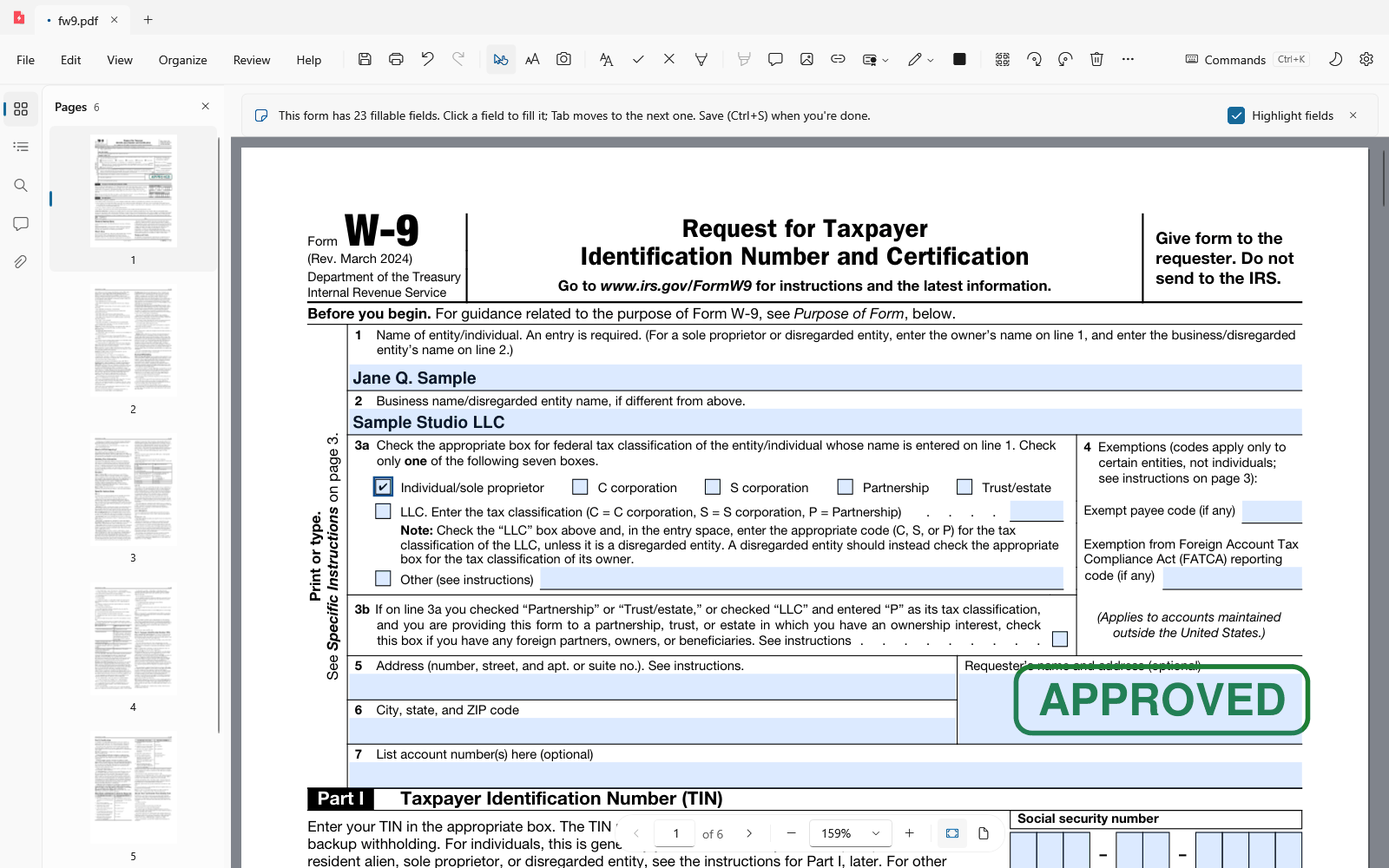
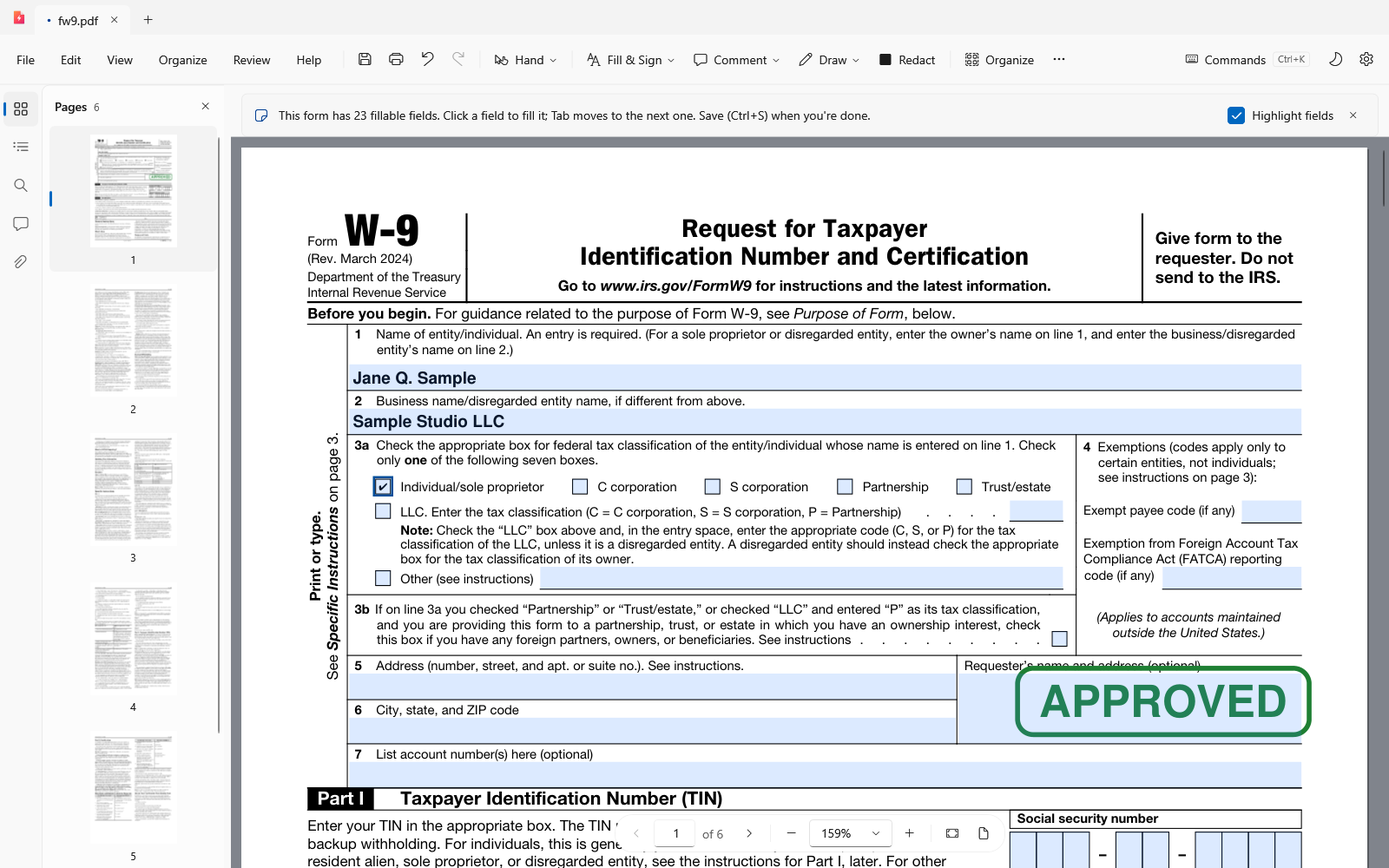
UX review round 2 (docs/UX-REVIEW.md): Inkvolt PDF 9.47 -> 9.62 (Fluent consistency and recognition 10 with Settings applying at once and the labeled, grouped command bar; minimalist 9.5; responsiveness 10 with the title bar and Organize following Text size), Inkvolt Print 9.50 -> 9.61 (Fluent consi

diff --git a/docs/UX-REVIEW.md b/docs/UX-REVIEW.md
@@ -5,7 +5,8 @@ them. Everything was judged on the real UI: every window, pane, dialog and state
 own dev aids (Inkvolt PDF's `--script`, Inkvolt Print's `--demo --snapshot`), in light and dark, at 1400 × 900, 1180 × 800
 and 900 × 620, plus a UI Automation audit of every visible control (the `a11yaudit` step and `--a11y-audit` switch added
 for this review). The review ran in two passes on 2026-10-30; the scores below are before the first and after the
-second. The scripts and the before/after shots that carry the findings are in `docs/ux-review/`; the full set reproduces
+second; a round 2 (below) then closed most of what each app's "Still short" listed (Inkvolt PDF 9.62, Inkvolt Print
+9.61). The scripts and the before/after shots that carry the findings are in `docs/ux-review/`; the full set reproduces
 with the scripts there. Scores are judged, not measured: each half point names what earned it or what still holds it
 back.
 
@@ -138,16 +139,83 @@ Fourteen criteria, weighted to 100. Each is scored 0–10 per app; the app's sco
 - **Flexibility**: shortcuts cover the review, Photos and presets, not every button; a palette would be more than the app
   needs.
 
+## Round 2
+
+A second pass on 2026-10-30 at what the first left short, judged the same way: the real UI rendered off-screen in light
+and dark, at 100 % and with Windows' Text size at 150 % (and 200 % for Inkvolt Print), plus the UI Automation audit.
+The shots are in `docs/ux-review/round2/` (`before/`, `after/`); `pdf-round2.txt` and the round-2 runs at the end of
+`print-runs.ps1` reproduce them.
+
+### Inkvolt PDF
+
+| # | Criterion | Round 1 | Round 2 | What changed |
+|---|---|---|---|---|
+| 4 | Fluent consistency | 9.5 | 10 | Settings apply at once, as Windows 11's do: no Save, only Close (`after/pdf-settings.png`). The command bar follows Fluent 2's pattern: primary commands, labeled groups, a "…" overflow that keeps the labels. |
+| 5 | Recognition | 9.5 | 10 | At 1200 DIPs the bar was 15 unlabeled icons (`before/pdf-bar-1200.png`); it now reads Hand, Fill & Sign, Comment (`after/pdf-bar-1200.png`), with Draw and Organize from 1400 and everything at 1700. Each group's menu names its tools with their icons and keys (`after/pdf-bar-fillsign.png`, `after/pdf-bar-comment.png`). |
+| 7 | Minimalist | 9.0 | 9.5 | About twenty icons became four (save, print, undo, redo) and six labeled buttons; rotate, delete pages, find and combine live in "…" (`after/pdf-bar-more.png`), the menus and the palette. |
+| 14 | Responsiveness | 9.5 | 10 | The title bar's tabs and the Organize view kept their size at Text size 150 % (`before/pdf-reading-150.png`, `before/pdf-organize-150.png`); they scale now and the title bar grows to fit (`after/pdf-reading-150.png`, `after/pdf-organize-150.png`). The bar's labels go only when Fill & Sign or Comment wouldn't fit with them (`after/pdf-bar-900.png`). |
+| 3 | Control | 9.5 | 9.5 | Instant settings keep a way back: Undo changes puts every setting changed since Settings opened back as it was, Reset to defaults included (`after/pdf-settings-undone.png`). |
+| | Every other criterion | — | as round 1 | |
+| | **Weighted** | **9.47** | **9.62** | |
+
+**The command bar, the one redesign of this pass.** Before (`before/pdf-bar-1200.png`, `before/pdf-bar-1400.png`): the
+first round's bar kept labels only on windows about 1700 DIPs wide; at 1200 and 1400 it was a row of icons (save, print,
+undo, redo, hand, select, snapshot, add text, check, cross, sign, highlight, note, then "…"). After
+(`after/pdf-bar-1200.png`, `after/pdf-bar-1400.png`, `after/pdf-bar-1200-dark.png`): the same commands in the same
+order, grouped as the menus already group them: save, print, undo and redo stay icons (their glyphs are universal);
+**Hand / Select / Snapshot** is one button named after the tool in use; **Fill & Sign** drops add text, check mark,
+cross and sign; **Comment** drops highlight, underline, strike out, note, image, link and stamp; **Draw**, **Redact** and
+**Organize** are labeled; "…" holds what didn't fit (a group as a submenu) and then rotate, delete selected pages, find
+and combine, all with labels. A group shows the tool of it in use (icon, checked). Which entries stay as room runs short
+is a table in Core (`CommandBarLayout`: order, groups, priorities, icons; tested), and a test reads the menus to check
+every bar command is in them, so the palette lists each one (Organize › Delete Selected Pages joined the menus for that).
+
+**Settings.** Each change takes effect and is saved as it is made; Reset to defaults applies at once; Undo changes
+(disabled when nothing changed, its tooltip counting the changes) puts back the values from when the window opened
+(`SettingsSession`, Core, tested). That covers the risky ones: turning off recovery copies, resetting everything.
+
+#### Still short
+
+- **Text size 150 % on a 1200-DIP window** leaves the bar 800 DIPs, of which the menu bar takes about 380: the bar goes
+  icons-only there (save, print, undo, then "…"; `after/pdf-bar-1200-150.png`). The groups keep their tooltips, the
+  menus and the palette have everything; folding the menu bar into one button would free the room but hide the Alt
+  keys people use, so it stays.
+- **The group menus** are WPF context menus in the app's Fluent styling, not WinUI flyouts with a line of description
+  under each command.
+- **Organize's page pictures** keep the thumbnail size the slider sets; their numbers and buttons scale.
+
+### Inkvolt Print
+
+| # | Criterion | Round 1 | Round 2 | What changed |
+|---|---|---|---|---|
+| 4 | Fluent consistency | 9.5 | 10 | Motion where Fluent expects it: a section's page when its tab is chosen, the printer's page when another printer is, a status line when its words change, the folded sidebar sliding in, the palette dropping in; 167 ms, decelerate, none when Windows' Animation effects is off (`Motion`). |
+| 6 | Flexibility | 9.5 | 10 | A command palette (Ctrl+K), the same as Inkvolt PDF's: every sidebar, header, section and printer-menu command, each other printer, each scan preset with its Ctrl+1…9 (`after/print-palette.png`, `after/print-palette-scan-dark.png`); it says what to try when nothing matches (`after/print-palette-nomatch.png`). Help lists Ctrl+K. Everything is a few keys away without the mouse. |
+| 14 | Responsiveness | 9.5 | 10 | At Text size 150 % the 272-DIP sidebar took a third of a 1180-DIP window, at 200 % nearly half, cutting the printer's name to "HP LaserJ…" and wrapping the tabs in three rows (`before/print-overview-200.png`). Below 852 DIPs of room it folds into a Printers button that opens it over the page, as Windows Settings folds its pane (`after/print-overview-150.png`, `after/print-overview-200.png`, `after/print-nav-open-150.png`); never at 100 %. |
+| | Every other criterion | — | as round 1 | |
+| | **Weighted** | **9.50** | **9.61** | |
+
+The audit finds no control without a name or under 24 × 24 on the palette, the folded window or the open sidebar.
+
+#### Still short
+
+- **The palette** acts on the selected printer; another printer's menu commands need "Show …" first.
+- **Motion in the scan review** (a page added, deleted, moved) stays immediate: the review's own Undo and status line
+  say what happened, and animating the page grid while scanning would compete with the progress bar.
+
 ## How to reproduce
 
 - Inkvolt PDF: `InkvoltPdf.exe --script docs/ux-review/pdf-before.txt` (and `pdf-final.txt`, `pdf-audit.txt`) with
   `INKVOLTPDF_DATA` set to a scratch folder; the sample PDFs come from the tests with `INKVOLTPDF_SAMPLES` set. Edit the
   output paths in the scripts first.
-  `pdf-textsize.txt` is the second pass (`textscale 1.5` stands in for Windows' Text size).
+  `pdf-textsize.txt` is the second pass (`textscale 1.5` stands in for Windows' Text size), `pdf-round2.txt` round 2
+  (dev steps `barstate`, `barclick` and `menushot`: the command bar's state, a group's menu, a shot with it open).
 - Inkvolt Print: `InkvoltPrint.exe --demo --snapshot out.png --a11y-audit findings.txt [--tab Scan --scan 3 | --dialog confirm …]`
   (every run: `pwsh -File docs/ux-review/print-runs.ps1 -Exe …\InkvoltPrint.exe -Out C:\ux`). `INKVOLT_TEXTSCALE=1.5`
-  stands in for Windows' Text size in both apps; `--delete n` and `--undo` drive the review's Undo.
+  stands in for Windows' Text size in both apps; `--delete n` and `--undo` drive the review's Undo; round 2 adds
+  `--palette [words]`, `--run-palette` and `--nav open` (the folded sidebar).
 - The audit rules (`UiAudit`: no name, under 24 × 24) and the dialog split (`DialogText`) are in
   `shared/InkvoltPrint.Core/Suite` with tests in `print/tests/InkvoltPrint.Tests/UxTests.cs`; the palette's no-match words
   in `pdf/src/InkvoltPdf.Core/PaletteText.cs` with `PaletteTextTests`; the Text size rules (`TextSize`) and the review's
-  `UndoHistory` with `TextSizeTests` and `UndoHistoryTests`.
+  `UndoHistory` with `TextSizeTests` and `UndoHistoryTests`. Round 2: `CommandBarLayout` and `SettingsSession`
+  (`pdf/src/InkvoltPdf.Core`) with `CommandBarLayoutTests` and `SettingsSessionTests`; `PaletteSearch`, `PrintPalette`
+  and `NavPane` (`shared/InkvoltPrint.Core/Suite`) with `PaletteTests`.

diff --git a/print/README.md b/print/README.md
@@ -111,7 +111,7 @@ dotnet publish src/InkvoltPrint.App -p:PublishProfile=win-arm64   # or win-x64
 ```
 
 Dev aid: `InkvoltPrint.exe --snapshot out.png --tab Scan` renders the window to a PNG after connecting, then exits
-(`--size 1366 860` window size in DIPs, `--fix` opens the offline fixer, `--fix all` also applies its repairs (demo printers only), `--theme Dark`, `--scan [n]` runs one scan (or n) first, `--crop n` then opens the crop view on page n, `--source glass|feeder|duplex`, `--split none|patch|blank|either` and `--keep-separators` set the Scan tab first (with `--preset`, demo only: the preset scans a batch from the feeder and splits it), `--find-photos` turns on Several photos on the glass (with `--crop n` the photo view opens on page n, `--photo-box n` selecting its n-th photo; with `--preset`, demo only: the preset finds the photos and saves them as JPEGs without the review), `--scroll-end` scrolls the tab to its end, `--copy document|idcard-front|idcard` runs a copy first, `--printer n` shows the n-th printer, `--preset id|name` runs a scan preset (`--then print|email|pdf` sets its after-saving step first, demo only), `--presets [n]` renders the presets editor on its n-th preset instead of the window; `--maintenance [n]` scrolls to the Maintenance card and runs its n-th action (demo only, answering yes); `--photos [layout]` fills the Photos tab with generated sample pictures (layouts `full`, `4x6in`, `5x7in`, `8x10in`, `10x15cm`, `13x18cm`, `wallet`, `contact`; also `--paper key`, `--borderless`, `--fit`, `--one-per-sheet`, `--per-sheet n`, `--photo-zoom n`, and `--photo-sheets folder`, which renders each sheet with the print job's own paginator to PNGs there instead of printing); with `--tray` (the notification-area icon, on in demo mode) `--simulate-alerts` feeds a toner drop on the first demo printer and a jam on the second through the alert rules, and `--tray-shot menu|hidden|alert|settings` renders the icon's menu (hidden: after closing to the tray and one background check), a preview of the last alert or the Settings window instead of the window); `--dialog settings|help|whatsnew|report|addprinter|pro` renders that window instead (`pro`: Help › Inkvolt Pro; `--pro-key KEY` enters a key first, `--pro-enforce` shows the wording with the gate on; `pdf/tools/pro-key/test-vector.json` has a key). `--demo --no-printers` is a made-up PC that finds no printer (the empty list); `--demo --whatsnew-from 1.0.2` runs What's New as if updated from that version. `--demo --tray --simulate-alerts` without `--snapshot` shows the real notification.
+(`--size 1366 860` window size in DIPs, `--fix` opens the offline fixer, `--fix all` also applies its repairs (demo printers only), `--theme Dark`, `--scan [n]` runs one scan (or n) first, `--crop n` then opens the crop view on page n, `--source glass|feeder|duplex`, `--split none|patch|blank|either` and `--keep-separators` set the Scan tab first (with `--preset`, demo only: the preset scans a batch from the feeder and splits it), `--find-photos` turns on Several photos on the glass (with `--crop n` the photo view opens on page n, `--photo-box n` selecting its n-th photo; with `--preset`, demo only: the preset finds the photos and saves them as JPEGs without the review), `--scroll-end` scrolls the tab to its end, `--copy document|idcard-front|idcard` runs a copy first, `--printer n` shows the n-th printer, `--preset id|name` runs a scan preset (`--then print|email|pdf` sets its after-saving step first, demo only), `--presets [n]` renders the presets editor on its n-th preset instead of the window; `--maintenance [n]` scrolls to the Maintenance card and runs its n-th action (demo only, answering yes); `--photos [layout]` fills the Photos tab with generated sample pictures (layouts `full`, `4x6in`, `5x7in`, `8x10in`, `10x15cm`, `13x18cm`, `wallet`, `contact`; also `--paper key`, `--borderless`, `--fit`, `--one-per-sheet`, `--per-sheet n`, `--photo-zoom n`, and `--photo-sheets folder`, which renders each sheet with the print job's own paginator to PNGs there instead of printing); with `--tray` (the notification-area icon, on in demo mode) `--simulate-alerts` feeds a toner drop on the first demo printer and a jam on the second through the alert rules, and `--tray-shot menu|hidden|alert|settings` renders the icon's menu (hidden: after closing to the tray and one background check), a preview of the last alert or the Settings window instead of the window); `--nav open` opens the folded sidebar (with `INKVOLT_TEXTSCALE=1.5`), `--palette [words]` opens the command palette with the words typed and `--run-palette` then runs its first entry; `--dialog settings|help|whatsnew|report|addprinter|pro` renders that window instead (`pro`: Help › Inkvolt Pro; `--pro-key KEY` enters a key first, `--pro-enforce` shows the wording with the gate on; `pdf/tools/pro-key/test-vector.json` has a key). `--demo --no-printers` is a made-up PC that finds no printer (the empty list); `--demo --whatsnew-from 1.0.2` runs What's New as if updated from that version. `--demo --tray --simulate-alerts` without `--snapshot` shows the real notification.
 
 Demo mode: `InkvoltPrint.exe --demo` shows five made-up network printers: the HP laser at 192.0.2.10 served from the scrubbed test
 fixtures, an Epson-style inkjet at 192.0.2.11 (IPP and eSCL only, no HP interfaces; low yellow ink, maintenance box,
@@ -152,6 +152,10 @@ trademark guidance: [packaging/README.md](packaging/README.md). Icons and MSIX i
   "Open scans in Inkvolt PDF", the scan presets editor, and the notification area and alerts (`Views/SettingsWindow`,
   `AlertSettingsPanel`). The Scan tab keeps the choices made per scan. *Reset to defaults* puts those preferences back
   (`AppState.ResetPreferences`; printers, presets, scans and the Scan tab's choices are kept) and turns Start with Windows off.
+- **Command palette** (Ctrl+K), as Inkvolt PDF's: type to find any command of the sidebar, the printer's header buttons,
+  sections and menu (only what the selected printer offers), another printer to show, or a scan preset to run (with its
+  Ctrl+1…9); ↑↓ choose, Enter runs, Esc closes; it says what to try when nothing matches. The list is `Core/Suite/PrintPalette`,
+  the matching `Core/Suite/PaletteSearch` (shared with Inkvolt PDF's palette; both tested).
 - **Help** (sidebar › *Help and shortcuts*, F1): the keyboard shortcuts, why a printer may not be found (VPN, firewall, another
   network: *Add a printer* looks harder; the empty printer list says the same, with an *Add a printer…* button), *What's new*,
   *Report a problem…*, *Open log folder* and *Inkvolt Pro…* (the licence window, see "Inkvolt suite"). **What's new** shows `WHATS-NEW.md` (embedded) once after an update, the versions
@@ -168,7 +172,12 @@ trademark guidance: [packaging/README.md](packaging/README.md). Icons and MSIX i
   `PrinterStatus.ListLine`). On the Scan tab the Scan button stays in view under the settings, which scroll on a short window.
   The Overview's cards share the pane's width in equal columns, as many as fit at about 400 px (`Views/CardWrapPanel`). A title
   and its buttons share a row when they fit and stack otherwise (`Views/HeaderPanel`: scan review, crop, photos), and review
-  thumbnails fit the pane's height (150 to 285 px), so a 1024 × 700 window shows whole pages.
+  thumbnails fit the pane's height (150 to 285 px), so a 1024 × 700 window shows whole pages. Windows' Text size scales the
+  whole window; when that leaves under 852 DIPs (150 % on a 1180-DIP window; never at 100 %) the sidebar folds into a
+  **Printers** button that opens it over the page, as Windows Settings folds its pane: choosing a printer, Esc or a click
+  outside closes it (`Core/Suite/NavPane`, tested). Motion, short and reducible as in Inkvolt PDF (`Motion`: 167 ms, none
+  when Windows' Animation effects is off): a section's page when its tab is chosen, the printer's page when another
+  printer is, a status line when its words change, the folded sidebar and the palette arriving.
 - One instance per user (named mutex + current-user-only pipe, listening as soon as the mutex is taken: files opened together
   with "Open with" before the window is up are held and opened in order; another launch waits up to 20 s for it). Software rendering (the UI is static; GPU rendering cost ~200 MB on ARM64).
 - Unhandled errors are logged to `%LOCALAPPDATA%\InkvoltPrint\logs\inkvoltprint.log` and shown; the app keeps running. Closing with unsaved scans asks first.

diff --git a/pdf/README.md b/pdf/README.md
@@ -38,8 +38,16 @@ Installing Inkvolt PDF and Inkvolt Print together (one Start Menu folder, each a
 
 ## Using it
 
-- **Windows 11 look**: Mica, document tabs in the title bar (Snap Layouts kept), light/dark/system theme (Ctrl+,). The
-  command bar stays one row: on a narrow window labels give way to icons, then the rest goes into the "…" menu.
+- **Windows 11 look**: Mica, document tabs in the title bar (Snap Layouts kept), light/dark/system theme (Ctrl+,).
+- **Command bar** (Fluent 2's pattern, one row): save, print, undo and redo as icons, then labeled groups in the order of
+  the menus: **Hand / Select / Snapshot** (named after the tool in use), **Fill & Sign** (add text, check mark, cross,
+  sign), **Comment** (highlight, underline, strike out, note, image, link, stamp), **Draw**, **Redact** and **Organize**.
+  A group drops a menu of its tools with their icons and keys and shows the one in use. "…" holds what doesn't fit (a
+  group as a submenu), then rotate, delete selected pages, find and combine, all with labels. Labels show from about
+  1150 DIPs (Select, Fill & Sign, Comment at 1200; Draw and Organize from 1400; everything at 1700); the bar goes
+  icons-only only when Fill & Sign or Comment wouldn't fit with theirs. Every bar command is in the menus, so the command
+  palette (Ctrl+K) lists it. The table (order, groups, priorities, icons) and the fitting are `CommandBarLayout` (Core,
+  tested); `ToolbarPanel` lays it out; dev steps `barstate`, `barclick Id|More`, `menushot out.png`.
 - **Tabs**: next / previous with Ctrl+Tab / Ctrl+Shift+Tab or Ctrl+PgDn / Ctrl+PgUp, Ctrl+Alt+1…9 picks one,
   Ctrl+Shift+T reopens the last closed tab at its page (the last 10). A file opened from Explorer while Inkvolt PDF is
   asking about unsaved changes before closing waits, and keeps the window open for itself. Right-click a tab (or Shift+F10)
@@ -313,8 +321,8 @@ Installing Inkvolt PDF and Inkvolt Print together (one Start Menu folder, each a
 - **Reload** (F5) and an info bar when another program changes the open file; a reload that needs the file's password
   asks for it (after Remove Protection, the file on disk still has one). **Accessibility**: screen-reader names
   for pages, fields, links and lists; caret browsing (F7); F6 cycles command bar, side rail, pane and page (both panes of a split view); high-contrast aware;
-  Windows' Text size (Settings › Accessibility) enlarges the dialogs, command bar, panes and start page (the pages zoom on
-  their own); toasts and the command palette move only when Windows' Animation effects is on.
+  Windows' Text size (Settings › Accessibility) enlarges the dialogs, the title bar's tabs (the title bar grows to fit),
+  the command bar, panes, start page and the Organize view's bars, page numbers and buttons (the pages zoom on their own); toasts and the command palette move only when Windows' Animation effects is on.
 - **Recovery copies**: every PDF with unsaved changes (edits, a combined or scanned document never saved) gets a copy in
   `%LOCALAPPDATA%\InkvoltPdf\recovery` at most every 20 seconds after a change, written in the background as Save would
   write it (a password-protected document stays protected), and at once when Windows signs out. A copy goes when its
@@ -385,8 +393,10 @@ Installing Inkvolt PDF and Inkvolt Print together (one Start Menu folder, each a
   says the copy isn't from the Store). Decisions: `UpdateCheck` (Core, tested with a fake Store); Store calls:
   `StoreUpdates`, `MainWindow.Updates.cs`; dev steps `updatefake none|ready|mandatory|error`, `updatecheck [startup]`,
   `updatestate`.
-- **Settings** (Ctrl+,): *Reset to defaults* puts the dialog's choices back as a new install has them (saved with Save; recent
-  files, signatures and the AI assistant's settings are kept).
+- **Settings** (Ctrl+,): each change takes effect and is saved as it is made, as in Windows 11's Settings; the window
+  closes with Close. *Reset to defaults* puts the choices back as a new install has them, at once (recent files,
+  signatures and the AI assistant's settings are kept); *Undo changes* puts back every setting changed since the window
+  opened, a reset included (`SettingsSession`, Core, tested).
 - **Password protection** (File › Protect with Password…): an open password (with a strength hint) and/or a
   permissions password restricting printing (high/low resolution/none), copying, editing, comments, form filling and
   page assembly; AES-256 (or AES-128 for old readers). An undoable edit; save to keep it. Remove Protection… takes it

diff --git a/pdf/WHATS-NEW.md b/pdf/WHATS-NEW.md
@@ -5,13 +5,14 @@ Each release gets a `## x.y.z` heading before it's packed (`packaging/pack-msix.
 `## Next` collects what's done since the last release and is never shown. Short lines, in the user's words.
 
 ## Next
-- Inkvolt PDF follows Windows' Text size (Settings › Accessibility): dialogs, the command bar, the panes and the start page get larger with it. The pages keep their own zoom.
+- Inkvolt PDF follows Windows' Text size (Settings › Accessibility): dialogs, the tabs at the top, the command bar, the panes, the start page and Organize Pages get larger with it. The pages keep their own zoom.
 - A toast with Undo goes away when you close the document it was about, so it can't undo something in a file that's gone.
 - Toasts and the command palette slide in briefly instead of popping up; they don't move at all when Windows' animation effects are off.
 - Sanitize and Reduce File Size say what they remove in plain words ("document properties", "leftover pieces of earlier edits") instead of "XMP metadata" and "unused objects".
 - Boxes say what goes in them: Search, Find, the comment filter and the shortcuts filter show a hint until you type.
 - The command palette (Ctrl+K) says when nothing matches and what to try; with no file open it says the document commands come once you open one.
-- The command bar keeps its labels (Add text, Sign, Stamp, Draw, Organize) on narrower windows: the icon-only commands after them go into the … menu first.
+- A tidier command bar with words, not just icons: Fill & Sign, Comment, Draw, Redact and Organize are labeled buttons, each opening its tools (add text, check mark, sign; highlight, note, image, link, stamp…), and the hand and select tools share one. The labels show on ordinary window sizes now; rotate, delete pages, find and combine are in the … menu.
+- Settings take effect as soon as you change them, as in Windows' own Settings: no Save button. Undo changes puts everything back as it was when you opened Settings, Reset to defaults included.
 - The icon rail (Pages, Bookmarks, Search, Comments…) is in the Tab order with a visible focus ring, and F6 reaches it.
 - Dialogs that only inform close with Close, not OK; Combine says "No files yet" with what to do; the Accessibility pane's tabs no longer wrap; What's New's text stays clear of its scrollbar.
 - Every box in the dialogs has a name a screen reader reads (its label), including the Crop margins, page ranges and Document Properties.

diff --git a/print/WHATS-NEW.md b/print/WHATS-NEW.md
@@ -5,6 +5,9 @@ Each release gets a `## x.y.z` heading before it's packed (`packaging/pack-msix.
 `## Next` collects what's done since the last release and is never shown. Short lines, in the user's words.
 
 ## Next
+- Press Ctrl+K to find any command by typing: show another printer, go to Scan, run a scan preset, fix printing problems, open Settings… Up and down choose, Enter runs it.
+- With a large Text size or a small window, the printer list folds into a Printers button at the top, as Windows Settings does, so the printer's page keeps its room. Press it to open the list over the page.
+- Changing tabs or printers, and a new status line, now ease in briefly instead of switching at once. Nothing moves when Windows' animation effects are off.
 - Alerts are proper Windows notifications now: one per printer, with Open printer and Pause alerts buttons, kept in Notification Center. A newer alert for the same printer replaces the one still showing.
 - Microsoft Store version: Start with Windows is offered in Settings › Notification area and alerts, straight into the notification area; Task Manager's Startup apps lists it and can turn it off.
 - Help › Inkvolt Pro…: enter an Inkvolt Pro licence key, see whom it's licensed to, or remove it. One key covers Inkvolt Print and Inkvolt PDF on this PC: enter it in either app and the other finds it. Everything stays free while the apps launch; a licence ($19, one time, no account, checked on your PC and never sent anywhere) supports the project and keeps the Pro features for you when they start asking for a key.
